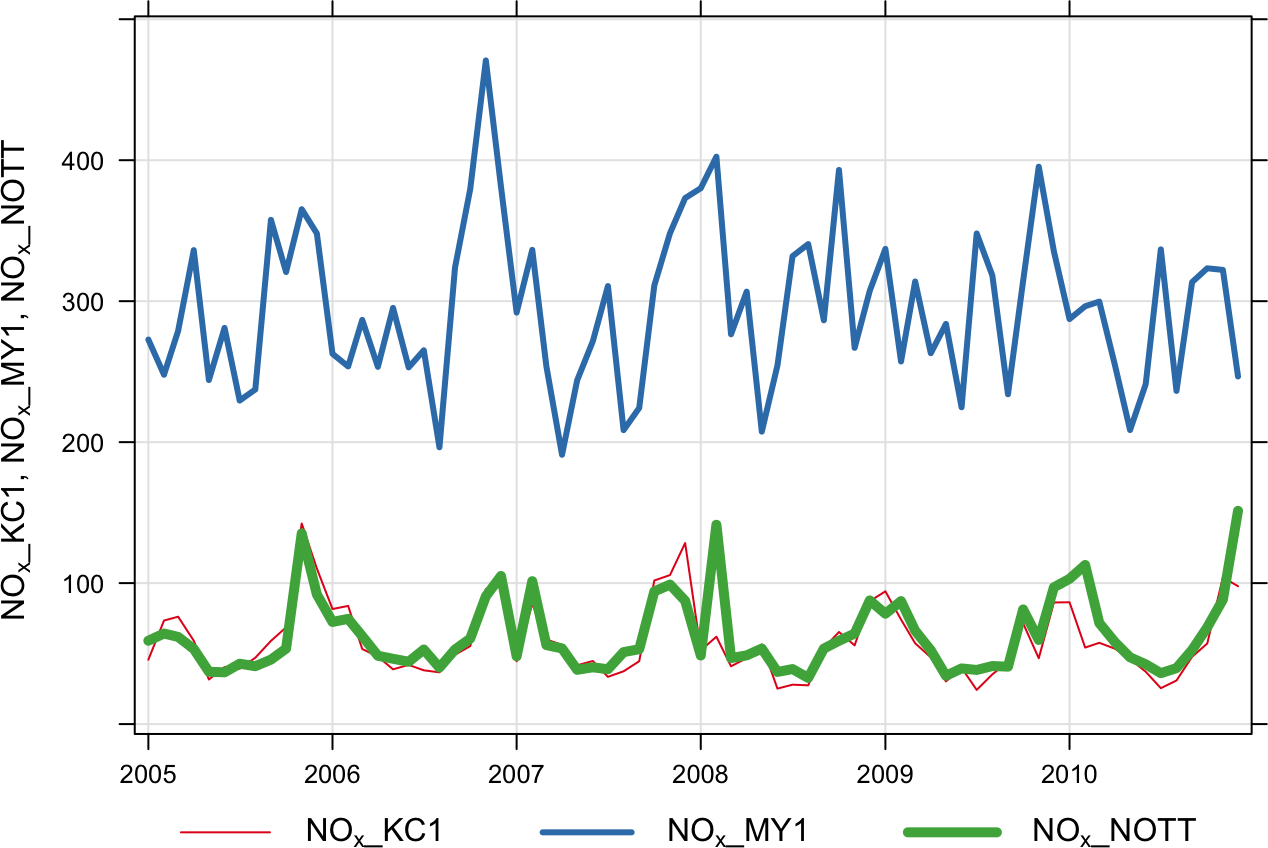
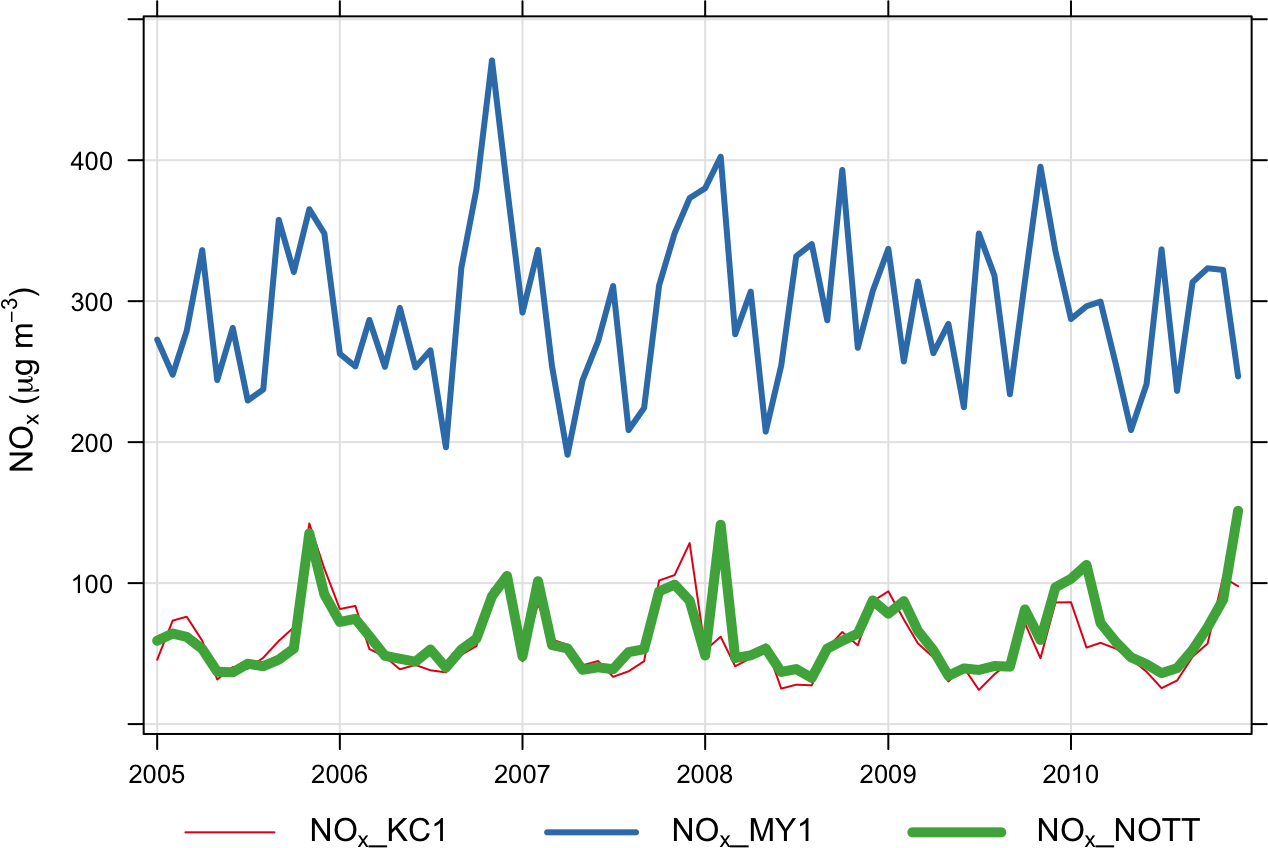
few plot refinements

diff --git a/_book/sec-timePlot.html b/_book/sec-timePlot.html
@@ -281,7 +281,7 @@ simple call e.g. to plot time series of NO<sub>x</sub> and O<sub>3</sub> in sep
 panels with their own scales.</p>
 <div class="sourceCode" id="cb69"><pre class="sourceCode r"><code class="sourceCode r"><span id="cb69-1"><a href="sec-timePlot.html#cb69-1" aria-hidden="true"></a><span class="kw">timePlot</span>(mydata, <span class="dt">pollutant =</span> <span class="kw">c</span>(<span class="st">&quot;nox&quot;</span>, <span class="st">&quot;o3&quot;</span>), <span class="dt">y.relation =</span> <span class="st">&quot;free&quot;</span>)</span></code></pre></div>
 <p>Often it is necessary to only consider part of a time series and using
-the function <code>selectByDate</code> makes it easy to do
+the <span class="pkg">openair</span> function <code>selectByDate</code> makes it easy to do
 this. Some examples are shown below.</p>
 <p>To plot data only for 2003:</p>
 <div class="sourceCode" id="cb70"><pre class="sourceCode r"><code class="sourceCode r"><span id="cb70-1"><a href="sec-timePlot.html#cb70-1" aria-hidden="true"></a><span class="kw">timePlot</span>(<span class="kw">selectByDate</span>(mydata, <span class="dt">year =</span> <span class="dv">2003</span>), </span>
@@ -315,7 +315,7 @@ Figure 9.1: Time series for several variables using the <code>timePlot</code> an
 <span id="cb72-11"><a href="sec-timePlot.html#cb72-11" aria-hidden="true"></a><span class="kw">timePlot</span>(mydata, <span class="dt">pollutant =</span> <span class="kw">c</span>(<span class="st">&quot;o3&quot;</span>, <span class="st">&quot;no2&quot;</span>), <span class="dt">avg.time =</span> <span class="st">&quot;2 week&quot;</span>,</span>
 <span id="cb72-12"><a href="sec-timePlot.html#cb72-12" aria-hidden="true"></a>         <span class="dt">statistic =</span> <span class="st">&quot;frequency&quot;</span>, <span class="dt">y.relation =</span> <span class="st">&quot;free&quot;</span>)</span></code></pre></div>
 <p>An example of normalising data is shown in Figure
-<a href="#fig:timePlotnorm"><strong>??</strong></a>. In this plot we have:</p>
+<a href="sec-timePlot.html#fig:timePlotNorm">9.2</a>. In this plot we have:</p>
 <ul>
 <li><p>Averaged the data to annual means;</p></li>
 <li><p>Chosen to normalise to the beginning of 2008;</p></li>
@@ -387,10 +387,11 @@ these names to make the plot (with a few plotting option enhancements):</p>
 <div class="sourceCode" id="cb77"><pre class="sourceCode r"><code class="sourceCode r"><span id="cb77-1"><a href="sec-timePlot.html#cb77-1" aria-hidden="true"></a><span class="kw">timePlot</span>(aq, </span>
 <span id="cb77-2"><a href="sec-timePlot.html#cb77-2" aria-hidden="true"></a>         <span class="dt">pollutant =</span> <span class="kw">c</span>(<span class="st">&quot;nox_KC1&quot;</span>, <span class="st">&quot;nox_MY1&quot;</span>, <span class="st">&quot;nox_NOTT&quot;</span>),</span>
 <span id="cb77-3"><a href="sec-timePlot.html#cb77-3" aria-hidden="true"></a>         <span class="dt">avg.time =</span> <span class="st">&quot;month&quot;</span>, <span class="dt">group =</span> <span class="ot">TRUE</span>,</span>
-<span id="cb77-4"><a href="sec-timePlot.html#cb77-4" aria-hidden="true"></a>         <span class="dt">lty =</span> <span class="dv">1</span>, <span class="dt">lwd =</span> <span class="kw">c</span>(<span class="dv">1</span>, <span class="dv">3</span>, <span class="dv">5</span>)</span>
-<span id="cb77-5"><a href="sec-timePlot.html#cb77-5" aria-hidden="true"></a>         )</span></code></pre></div>
+<span id="cb77-4"><a href="sec-timePlot.html#cb77-4" aria-hidden="true"></a>         <span class="dt">lty =</span> <span class="dv">1</span>, <span class="dt">lwd =</span> <span class="kw">c</span>(<span class="dv">1</span>, <span class="dv">3</span>, <span class="dv">5</span>),</span>
+<span id="cb77-5"><a href="sec-timePlot.html#cb77-5" aria-hidden="true"></a>         <span class="dt">ylab =</span> <span class="st">&quot;nox (ug/m3)&quot;</span></span>
+<span id="cb77-6"><a href="sec-timePlot.html#cb77-6" aria-hidden="true"></a>         )</span></code></pre></div>
 <div class="figure"><span id="fig:plotGroup"></span>
-<img src="openair_files/figure-html/plotGroup-1.png" alt="Plot of NO~x~ xconcentrations from three sites grouped in a single plot." width="672" />
+<img src="openair_files/figure-html/plotGroup-1.png" alt="Plot of NO~x~ xconcentrations from three sites grouped in a single plot." width="70%" />
 <p class="caption">
 Figure 9.4: Plot of NO<sub>x</sub> xconcentrations from three sites grouped in a single plot.
 </p>
